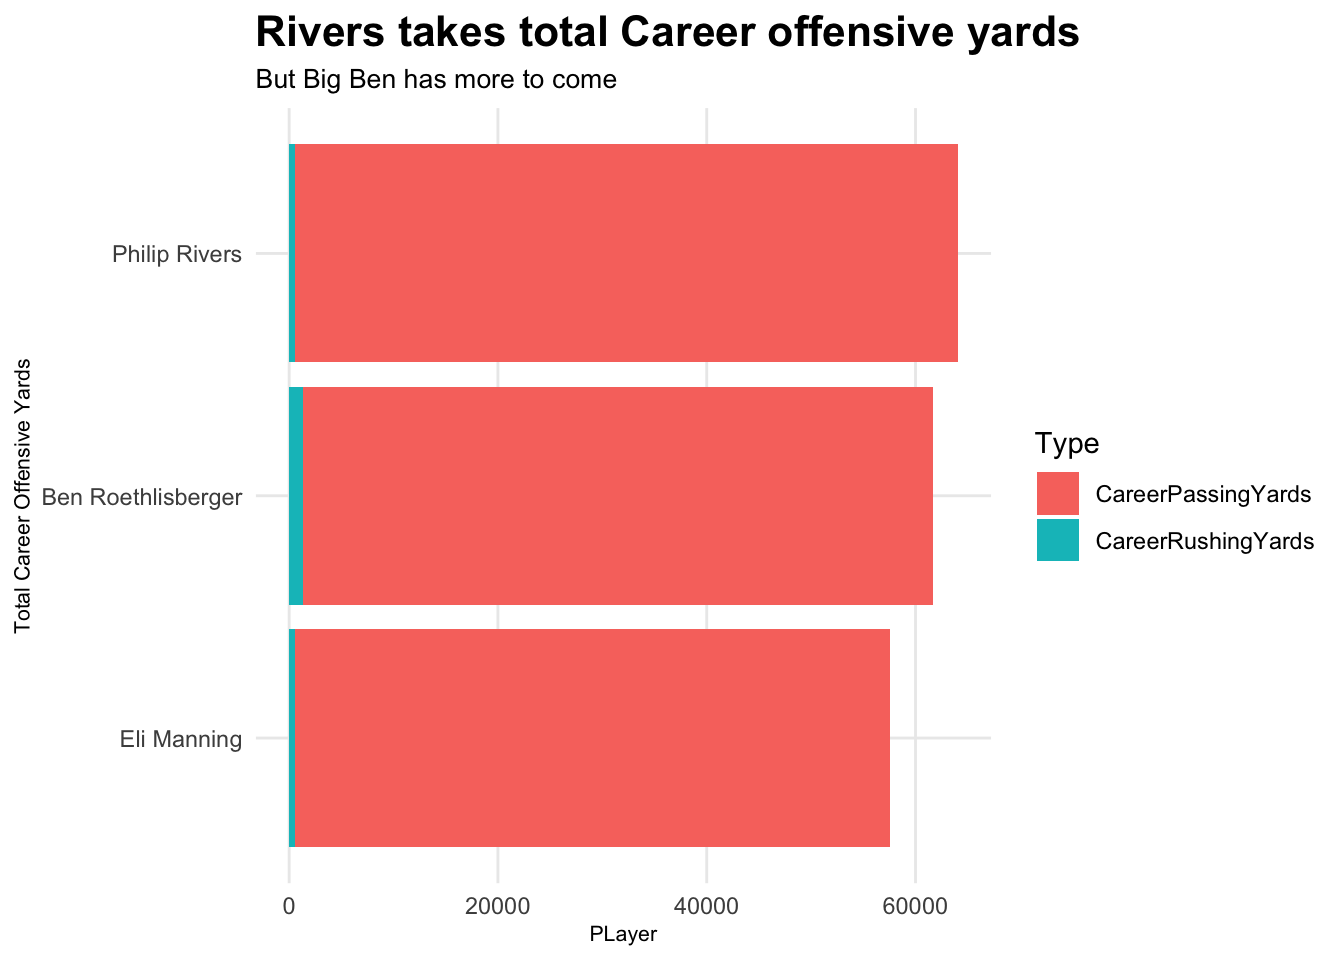
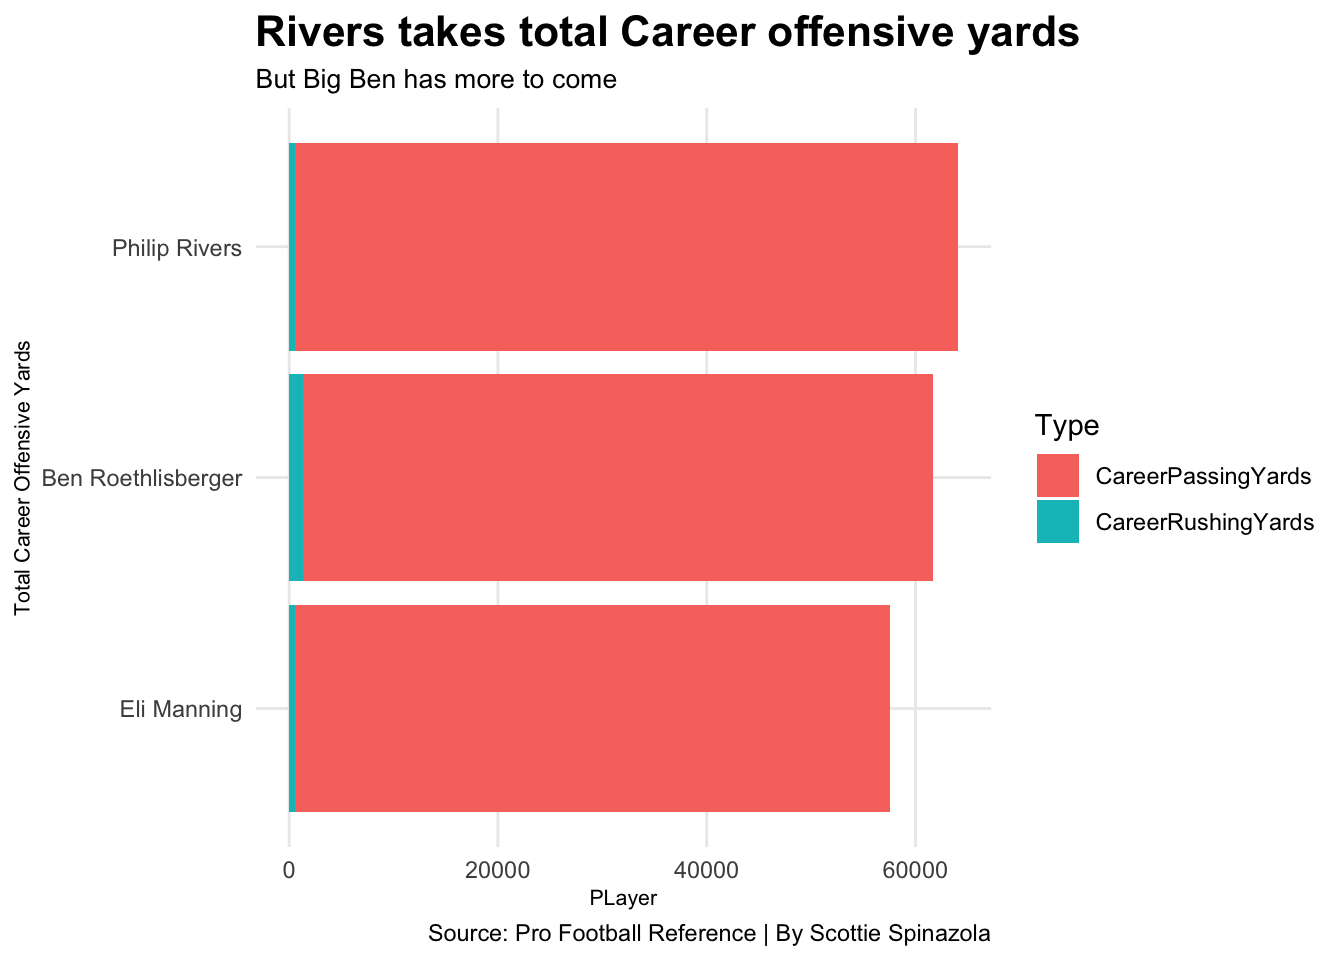
source and stuff

diff --git a/2021/03/16/who-deserves-the-spot-in-the-hof-of-the-top-three-qbs-in-the-2004-draft/index.html b/2021/03/16/who-deserves-the-spot-in-the-hof-of-the-top-three-qbs-in-the-2004-draft/index.html
@@ -123,7 +123,7 @@
     x = &quot;Total Career Offensive Yards&quot;,
     y = &quot;PLayer&quot;,
     title = &quot;Rivers takes total Career offensive yards&quot;,
-    subtitle = &quot;But Big Ben has more to come&quot;
+    subtitle = &quot;But Big Ben has more to come&quot;, caption=&quot;Source: Pro Football Reference | By Scottie Spinazola&quot;
   ) +
   theme_minimal() + 
   theme(
@@ -153,7 +153,7 @@ library(ggalt)</code></pre>
     colour_xend = &quot;red&quot;
   ) + 
   theme_minimal() + 
-   labs(title = &quot;Rivers takes the Touchdown Interception Ratio Battle&quot;, subtitle=&quot;Big Ben has less INT&#39;s but Rivers dominates on Touchdowns&quot;, y=&quot;Player&quot;, x=&quot;TD/INT Ratio&quot;) +
+   labs(title = &quot;Rivers takes the Touchdown Interception Ratio Battle&quot;, subtitle=&quot;Big Ben has less INT&#39;s but Rivers dominates on Touchdowns&quot;, caption=&quot;Source: Pro Football Reference | By Scottie Spinazola&quot;, y=&quot;Player&quot;, x=&quot;TD/INT Ratio&quot;) +
   theme(
     plot.title = element_text(size = 16, face = &quot;bold&quot;),
     axis.title = element_text(size = 8), 
